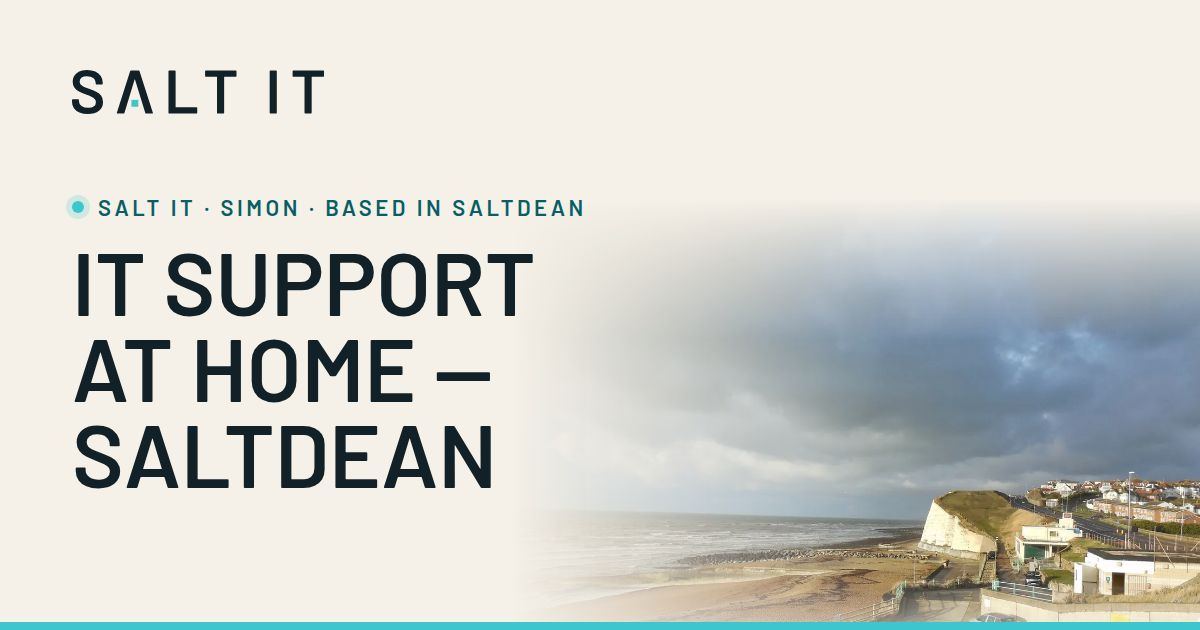
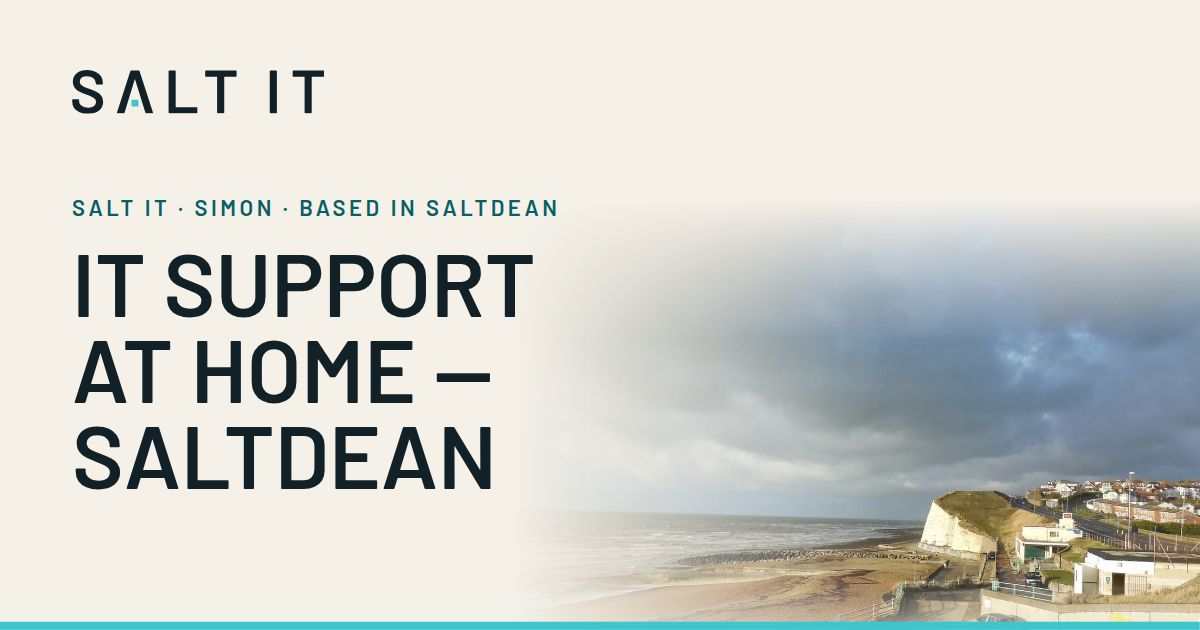
Drop the turquoise dot from the share image eyebrow and note wordmark-only usage

diff --git a/scripts/og-image.html b/scripts/og-image.html
@@ -25,8 +25,7 @@
     -webkit-mask-composite: source-in;
   }
   .brand { position: relative; display: block; width: auto; height: 44px; margin-top: 10px; }
-  .eyebrow { position: relative; display: flex; align-items: center; gap: 14px; margin: 80px 0 18px; font-size: 22px; font-weight: 600; letter-spacing: 0.16em; text-transform: uppercase; color: #085e66; }
-  .eyebrow::before { content: ""; width: 12px; height: 12px; border-radius: 50%; background: #3ec6cf; box-shadow: 0 0 0 6px rgba(62, 198, 207, 0.2); }
+  .eyebrow { position: relative; margin: 80px 0 18px; font-size: 22px; font-weight: 600; letter-spacing: 0.16em; text-transform: uppercase; color: #085e66; }
   h1 { position: relative; margin: 0; max-width: 11ch; font-size: 88px; font-weight: 600; line-height: 0.98; text-transform: uppercase; }
   .bar { position: absolute; left: 0; right: 0; bottom: 0; height: 8px; background: #3ec6cf; }
 </style>

diff --git a/README.md b/README.md
@@ -118,8 +118,9 @@ Where (stone band, coverage map) → Reviews (honest empty state) → Contact (s
 
 Logo: "SALT IT" outlined from Barlow 600, all caps, tracked 0.15em, in ink. The A has no crossbar;
 a small square salt grain in Lido turquoise sits where it would be. That is the only mark, and it
-is easy to miss until you look. The icon is the same A and grain, paper and turquoise on a
-square ink tile. Regenerate both with `python3 scripts/logo.py`; the PNGs are screenshots of
+is easy to miss until you look. The wordmark is the logo everywhere on the page (header and footer),
+with no separate icon or dot beside the name. The icon is the same A and grain, paper and turquoise
+on a square ink tile, used only for the favicon and apple-touch icon. Regenerate both with `python3 scripts/logo.py`; the PNGs are screenshots of
 `icon.svg` at 192 and 180 px. On a dark background, swap the ink letters for paper and keep the
 grain turquoise.
 
